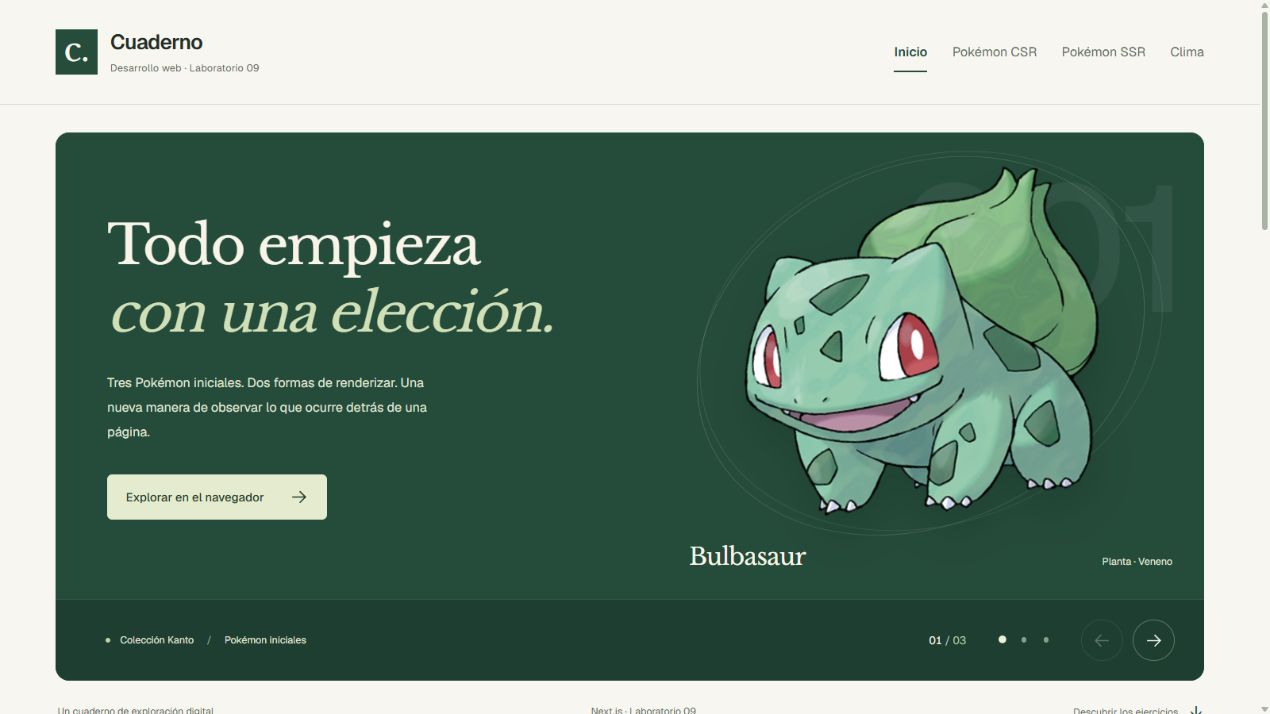
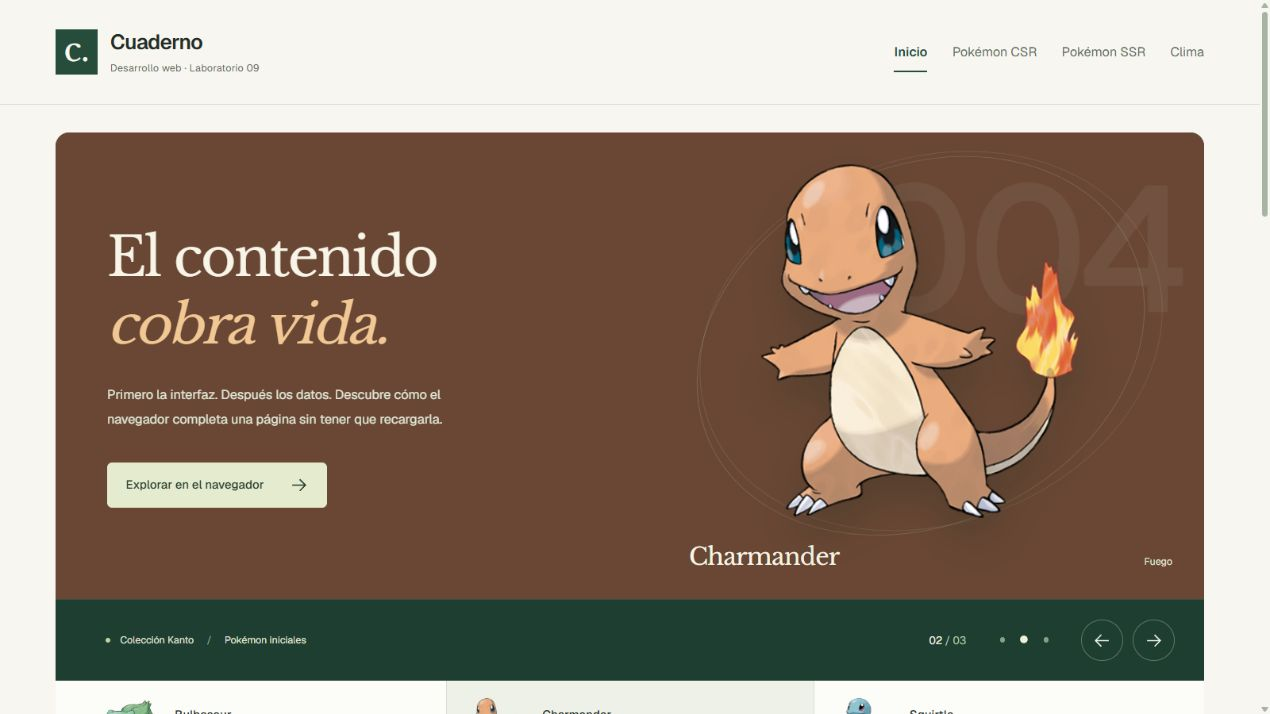
Añade selección visual y animación del recorrido de datos

diff --git a/app/globals.css b/app/globals.css
@@ -356,3 +356,57 @@ th:first-child, td:first-child { padding-left: 16px; }
   .showcase-pokemon { max-width: 400px; }
   .showcase-copy { padding-top: 44px; padding-bottom: 44px; }
 }
+
+/* Selección visual y recorrido de lectura. */
+.pokemon-selector { display: grid; grid-template-columns: repeat(3,1fr); padding: 0 24px; background: #fcfcf8; color: var(--foreground); }
+.pokemon-selector button { display: flex; align-items: center; gap: 16px; padding: 15px 20px; border: 0; border-bottom: 3px solid transparent; background: transparent; text-align: left; position: relative; min-width: 0; transition: background-color 180ms ease, border-color 180ms ease; }
+.pokemon-selector button + button { border-left: 1px solid var(--line); }
+.pokemon-selector button[aria-pressed=true] { border-bottom-color: var(--green); background: #edf1e7; }
+.pokemon-selector img { flex-shrink: 0; width: 60px; height: 60px; object-fit: contain; transition: transform 220ms var(--ease-out); }
+.pokemon-selector strong { display: block; font-size: 12px; font-weight: 500; }
+.pokemon-selector small { display: block; font-size: 10px; color: var(--muted); margin-top: 5px; }
+.selector-number { margin-left: auto; font-size: 10px; color: var(--muted); font-variant-numeric: tabular-nums; }
+.showcase-slide .showcase-pokemon { transform: rotate(-11deg) translateY(12px) scale(.96); opacity: .6; transition: transform 280ms var(--ease-out),opacity 240ms ease; }
+.showcase-slide[data-active=true] .showcase-pokemon { transform: rotate(-7deg) translateY(0) scale(1); opacity: 1; }
+.scroll-reveal { transition: opacity 280ms var(--ease-out),transform 280ms var(--ease-out); }
+.scroll-reveal[data-reveal=waiting] { opacity: 0; transform: translateY(18px); }
+.scroll-reveal[data-reveal=visible] { opacity: 1; transform: translateY(0); }
+.journey-play { display: flex; align-items: center; gap: 9px; border: 0; background: transparent; color: var(--green); padding: 12px 0; margin-top: 10px; font-size: 11px; min-height: 44px; }
+.journey-play svg { flex-shrink: 0; }
+.journey-step-number { transition: color 200ms ease,background-color 200ms ease,border-color 200ms ease; }
+.journey-steps li::after { transition: border-color 200ms ease; }
+.journey-steps li.step-complete .journey-step-number { background: var(--green); border-color: var(--green); color: #f7f6f0; }
+.journey-steps li.step-complete::after { border-color: var(--green); }
+.journey-steps li[aria-current=step] h3 { color: var(--green); }
+.journey-result { font-size: 11px; color: var(--muted); padding: 12px 0; border-top: 1px solid var(--line); margin: 0 0 14px; min-height: 44px; }
+.reading-progress { display: none; }
+@supports (animation-timeline:scroll()) {
+  .reading-progress { display: block; position: fixed; inset: 0 0 auto; height: 3px; z-index: 30; background: #618156; transform-origin: left; animation: reading-progress linear both; animation-timeline: scroll(root block); }
+}
+@keyframes reading-progress { from { transform: scaleX(0); } to { transform: scaleX(1); } }
+@media (hover:hover) and (pointer:fine) {
+  .pokemon-selector button:hover { background: #edf1e7; }
+  .pokemon-selector button:hover img { transform: translateY(-3px) rotate(-5deg); }
+  .showcase-slide[data-active=true] .showcase-art:hover .showcase-pokemon { transform: rotate(-3deg) translateY(-5px) scale(1); }
+  .journey-play:hover { text-decoration: underline; text-underline-offset: 4px; }
+}
+@media (max-width:900px) {
+  .pokemon-selector { padding: 0 10px; }
+  .pokemon-selector button { padding: 13px 10px; gap: 10px; }
+  .selector-number { display: none; }
+}
+@media (max-width:640px) {
+  .pokemon-selector { padding: 0; }
+  .pokemon-selector button { flex-direction: column; align-items: center; justify-content: center; text-align: center; gap: 2px; padding: 10px 4px; }
+  .pokemon-selector img { width: 48px; height: 48px; }
+  .pokemon-selector strong { font-size: 10px; }
+  .pokemon-selector small { display: none; }
+  .journey-play { font-size: 12px; }
+}
+@media (prefers-reduced-motion:reduce) {
+  .scroll-reveal,.scroll-reveal[data-reveal=waiting] { opacity: 1; transform: none; transition: none; }
+  .showcase-slide .showcase-pokemon,.showcase-slide[data-active=true] .showcase-pokemon,.showcase-slide[data-active=true] .showcase-art:hover .showcase-pokemon { opacity: 1; transform: rotate(-7deg); transition: none; }
+  .pokemon-selector img,.journey-step-number { transition: none; }
+  .pokemon-selector button:hover img { transform: none; }
+  .reading-progress { display: none; }
+}

diff --git a/app/components/RenderJourney.tsx b/app/components/RenderJourney.tsx
@@ -1,11 +1,26 @@
 "use client";
 
-import { useState } from "react";
+import { useEffect, useState } from "react";
 import Link from "next/link";
 import { Arrow } from "./Elements";
 
 export default function RenderJourney() {
   const [mode, setMode] = useState<"CSR" | "SSR">("CSR");
+  const [playing, setPlaying] = useState(false);
+  const [step, setStep] = useState(-1);
+  useEffect(() => {
+    if (!playing) return;
+    const timer = window.setInterval(() => {
+      setStep(value => Math.min(2, value + 1));
+    }, 850);
+    const finish = window.setTimeout(() => setPlaying(false), 2700);
+    return () => { window.clearInterval(timer); window.clearTimeout(finish); };
+  }, [playing]);
+  function play() {
+    setStep(0);
+    if (window.matchMedia("(prefers-reduced-motion: reduce)").matches) { setStep(2); return; }
+    setPlaying(true);
+  }
   const steps = mode === "CSR" ? [["La página llega", "Una interfaz inicial, todavía sin los datos."], ["El navegador consulta", "useEffect inicia la petición a la API."], ["El contenido aparece", "React actualiza la ficha sin recargar."]] : [["El servidor consulta", "La petición a la API ocurre en el servidor."], ["Los datos se renderizan", "El servidor construye el contenido de la ficha."], ["El HTML llega", "El navegador recibe el contenido preparado."]];
-  return <section className="journey" aria-labelledby="journey-title"><div className="journey-intro"><h2 id="journey-title">Lo que ves.<br /><em>Lo que ocurre.</em></h2><p>El resultado se parece.<br />El recorrido de los datos cambia.</p><div className="segmented-control" aria-label="Estrategia de renderizado">{(["CSR", "SSR"] as const).map(value => <button key={value} aria-pressed={mode === value} onClick={() => setMode(value)}>{value === "CSR" ? "Navegador" : "Servidor"}</button>)}</div></div><div className="journey-content"><ol className="journey-steps">{steps.map(([title, description], index) => <li key={index}><span className="journey-step-number">{index + 1}</span><div><h3>{title}</h3><p>{description}</p></div></li>)}</ol><Link className="text-link" href={mode === "CSR" ? "/pokemon-csr" : "/pokemon-ssr"} prefetch={false}>Ver {mode} en acción <Arrow /></Link></div></section>;
+  return <section className="journey" aria-labelledby="journey-title"><div className="journey-intro"><h2 id="journey-title">Lo que ves.<br /><em>Lo que ocurre.</em></h2><p>El resultado se parece.<br />El recorrido de los datos cambia.</p><div className="segmented-control" aria-label="Estrategia de renderizado">{(["CSR", "SSR"] as const).map(value => <button key={value} aria-pressed={mode === value} onClick={() => { setMode(value); setPlaying(false); setStep(-1); }}>{value === "CSR" ? "Navegador" : "Servidor"}</button>)}</div><button className="journey-play" onClick={playing ? () => setPlaying(false) : play}><svg width="16" height="16" viewBox="0 0 24 24" fill="none" stroke="currentColor" strokeWidth="1.5" aria-hidden="true">{playing ? <path d="M8 5v14M16 5v14" /> : <path d="m8 5 11 7-11 7Z" />}</svg>{playing ? "Detener recorrido" : step === 2 ? "Repetir recorrido" : "Reproducir recorrido"}</button></div><div className="journey-content"><ol className="journey-steps">{steps.map(([title, description], index) => <li key={index} className={step >= index ? "step-complete" : ""} aria-current={step === index ? "step" : undefined}><span className="journey-step-number">{index + 1}</span><div><h3>{title}</h3><p>{description}</p></div></li>)}</ol><div className="journey-result" role="status">{step < 0 ? "Elige una estrategia y sigue el recorrido." : step === 2 ? "Contenido disponible en la página." : `Paso ${step + 1}: ${steps[step][0]}.`}</div><Link className="text-link" href={mode === "CSR" ? "/pokemon-csr" : "/pokemon-ssr"} prefetch={false}>Ver {mode} en acción <Arrow /></Link></div></section>;
 }

diff --git a/app/components/Showcase.tsx b/app/components/Showcase.tsx
@@ -22,11 +22,12 @@ export default function Showcase() {
   }
   return <section className="showcase" aria-roledescription="carrusel" aria-label="Los Pokémon iniciales de Kanto">
     <div className="showcase-track" ref={track} tabIndex={0} aria-label="Desliza para explorar los Pokémon" onScroll={e => { const node = e.currentTarget; setActive(Math.round(node.scrollLeft / node.clientWidth)); }} onKeyDown={e => { if (e.key === "ArrowRight" || e.key === "ArrowLeft") { e.preventDefault(); go(Math.min(2, Math.max(0, active + (e.key === "ArrowRight" ? 1 : -1)))); } }}>
-      {collection.map((pokemon, index) => <article key={pokemon.id} className={`showcase-slide ${pokemon.color}`} aria-roledescription="diapositiva" aria-label={`${index + 1} de 3: ${pokemon.name}`} inert={active !== index}>
+      {collection.map((pokemon, index) => <article key={pokemon.id} className={`showcase-slide ${pokemon.color}`} data-active={active === index} aria-roledescription="diapositiva" aria-label={`${index + 1} de 3: ${pokemon.name}`} inert={active !== index}>
         <div className="showcase-copy"><h1>{pokemon.title.split("\n").map((line, i) => <span key={line}>{i === 1 ? <em>{line}</em> : line}</span>)}</h1><p>{pokemon.description}</p><Link href={index === 2 ? "/pokemon-ssr" : "/pokemon-csr"} prefetch={false} className="button showcase-cta">{index === 2 ? "Explorar en el servidor" : "Explorar en el navegador"}<Arrow /></Link></div>
         <div className="showcase-art"><span className="art-number" aria-hidden="true">{String(pokemon.id).padStart(3,"0")}</span><div className="art-orbit" aria-hidden="true" /><Image src={`https://raw.githubusercontent.com/PokeAPI/sprites/master/sprites/pokemon/other/official-artwork/${pokemon.id}.png`} alt={`Ilustración oficial de ${pokemon.name}`} width={475} height={475} unoptimized priority={index === 0} className="showcase-pokemon" /><div className="art-caption"><strong>{pokemon.name}</strong><span>{pokemon.type}</span></div></div>
       </article>)}
     </div>
     <div className="showcase-controls"><div className="collection-caption"><span className="collection-dot" />Colección Kanto<span className="collection-separator">/</span><span>Pokémon iniciales</span></div><div className="carousel-navigation"><span className="carousel-count" aria-live="polite">0{active + 1}<span> / 03</span></span><div className="carousel-dots">{collection.map((item,index) => <button key={item.id} className={index === active ? "active" : ""} aria-label={`Ver ${item.name}`} aria-pressed={index === active} onClick={() => go(index)} />)}</div><button className="circle-button previous" aria-label="Pokémon anterior" disabled={active === 0} onClick={() => go(active - 1)}><Arrow /></button><button className="circle-button" aria-label="Pokémon siguiente" disabled={active === 2} onClick={() => go(active + 1)}><Arrow /></button></div></div>
+    <div className="pokemon-selector" aria-label="Seleccionar Pokémon inicial">{collection.map((pokemon, index) => <button key={pokemon.id} aria-pressed={active === index} onClick={() => go(index)}><Image src={`https://raw.githubusercontent.com/PokeAPI/sprites/master/sprites/pokemon/other/official-artwork/${pokemon.id}.png`} alt="" width={64} height={64} unoptimized /><span><strong>{pokemon.name}</strong><small>{pokemon.type}</small></span><span className="selector-number">{String(pokemon.id).padStart(3, "0")}</span></button>)}</div>
   </section>;
 }

diff --git a/app/page.tsx b/app/page.tsx
@@ -2,19 +2,20 @@ import Link from "next/link";
 import { Arrow } from "./components/Elements";
 import Showcase from "./components/Showcase";
 import RenderJourney from "./components/RenderJourney";
+import Reveal from "./components/Reveal";
 
 export default function Home() {
   return <main className="page home-page immersive-home">
     <Showcase />
     <div className="edition-line"><span>Un cuaderno de exploración digital</span><span>Next.js · Laboratorio 09</span><a href="#ejercicios" className="edition-scroll">Descubrir los ejercicios <span aria-hidden="true">↓</span></a></div>
-    <RenderJourney />
-    <section className="exercise-section" id="ejercicios" aria-labelledby="exercise-title"><div className="section-heading"><h2 id="exercise-title">De la idea a la experiencia.</h2><span>Tres ejercicios para explorar</span></div>
+    <Reveal><RenderJourney /></Reveal>
+    <Reveal><section className="exercise-section" id="ejercicios" aria-labelledby="exercise-title"><div className="section-heading"><h2 id="exercise-title">De la idea a la experiencia.</h2><span>Tres ejercicios para explorar</span></div>
       {[
         ["1.1", "/pokemon-csr", "Pokémon en el navegador", "La página aparece primero; el navegador consulta los datos después.", "CSR"],
         ["1.1", "/pokemon-ssr", "Pokémon desde el servidor", "El servidor obtiene el Pokémon y entrega su contenido como HTML.", "SSR"],
         ["2.1", "/weather", "Un clima, dos enfoques", "Lima desde el servidor. Cuatro ciudades para consultar sin recargar.", "Híbrido"],
       ].map(([number, href, title, description, mode]) => <Link className="exercise-row" href={href} key={href} prefetch={false}><span className="exercise-number">{number}</span><div><h3>{title}</h3><p>{description}</p></div><span className="mode-tag">{mode}</span><Arrow /></Link>)}
-    </section>
-    <section className="climate-invitation"><div><h2>De Kanto<br /><em>al resto del mundo.</em></h2><p>Consulta el clima de Lima y explora Tokio, Nueva York, Londres y Sídney en un dashboard híbrido.</p><Link href="/weather" className="button button-green" prefetch={false}>Abrir el observatorio <Arrow /></Link></div><div className="climate-type" aria-hidden="true"><span>LIM</span><span>TYO</span><span>LON</span><span>NYC</span><span>SYD</span></div></section>
+    </section></Reveal>
+    <Reveal><section className="climate-invitation"><div><h2>De Kanto<br /><em>al resto del mundo.</em></h2><p>Consulta el clima de Lima y explora Tokio, Nueva York, Londres y Sídney en un dashboard híbrido.</p><Link href="/weather" className="button button-green" prefetch={false}>Abrir el observatorio <Arrow /></Link></div><div className="climate-type" aria-hidden="true"><span>LIM</span><span>TYO</span><span>LON</span><span>NYC</span><span>SYD</span></div></section></Reveal>
   </main>;
 }

diff --git a/app/components/Reveal.tsx b/app/components/Reveal.tsx
@@ -1,0 +1,22 @@
+"use client";
+
+import { useEffect, useRef } from "react";
+import type { ReactNode } from "react";
+
+export default function Reveal({ children, className = "" }: { children: ReactNode; className?: string }) {
+  const element = useRef<HTMLDivElement>(null);
+  useEffect(() => {
+    const node = element.current;
+    if (!node || window.matchMedia("(prefers-reduced-motion: reduce)").matches || !("IntersectionObserver" in window)) return;
+    if (node.getBoundingClientRect().top > window.innerHeight) node.dataset.reveal = "waiting";
+    const observer = new IntersectionObserver(entries => {
+      if (entries.some(entry => entry.isIntersecting)) {
+        node.dataset.reveal = "visible";
+        observer.disconnect();
+      }
+    }, { threshold: 0.08 });
+    observer.observe(node);
+    return () => observer.disconnect();
+  }, []);
+  return <div ref={element} className={`scroll-reveal ${className}`}>{children}</div>;
+}

diff --git a/app/layout.tsx b/app/layout.tsx
@@ -15,6 +15,7 @@ export const metadata: Metadata = {
 
 export default function RootLayout({ children }: LayoutProps<"/">) {
   return <html lang="es" className={`${geistSans.variable} ${geistMono.variable} ${editorial.variable}`}><body>
+    <div className="reading-progress" aria-hidden="true" />
     <a className="skip-link" href="#contenido">Saltar al contenido</a>
     <Suspense fallback={<header className="site-header">Cuaderno</header>}><Navigation /></Suspense>
     <div id="contenido" className="site-content">{children}</div>

diff --git a/DESIGN.md b/DESIGN.md
@@ -15,3 +15,9 @@ Portada con carrusel nativo scroll-snap: tres Pokémon iniciales, flechas, indic
 La comparación Navegador/Servidor cambia los pasos y el enlace del ejercicio. No genera consultas a APIs. Las fichas prefieren official-artwork y conservan el sprite como alternativa. El clima incorpora accesos directos a las cuatro ciudades.
 
 Verificación: lint y build correctos. Navegador de escritorio: flechas del carrusel, actualización de indicadores y comparación interactiva. La adaptación móvil usa una columna y desplazamiento nativo; el gesto táctil requiere comprobación en un teléfono real.
+
+## Movimiento y selección visual
+
+Se añadieron miniaturas seleccionables para los Pokémon iniciales y transición de las ilustraciones al entrar en la diapositiva. Las secciones de la portada aparecen una sola vez al entrar en el área visible; sin JavaScript o con movimiento reducido, siguen visibles.
+
+El recorrido CSR/SSR se reproduce manualmente con tres pasos, permite detenerse y reiniciarse, y limpia sus temporizadores al desmontar el componente o cambiar de estrategia. Con movimiento reducido muestra el resultado de inmediato. Un indicador de lectura usa la animación nativa de scroll cuando el navegador la admite.
